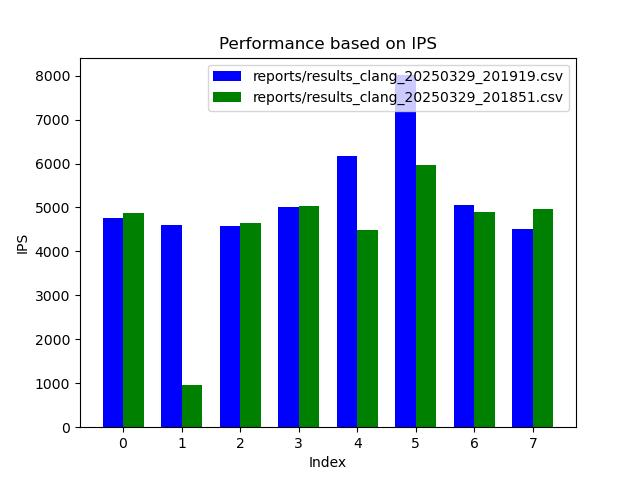
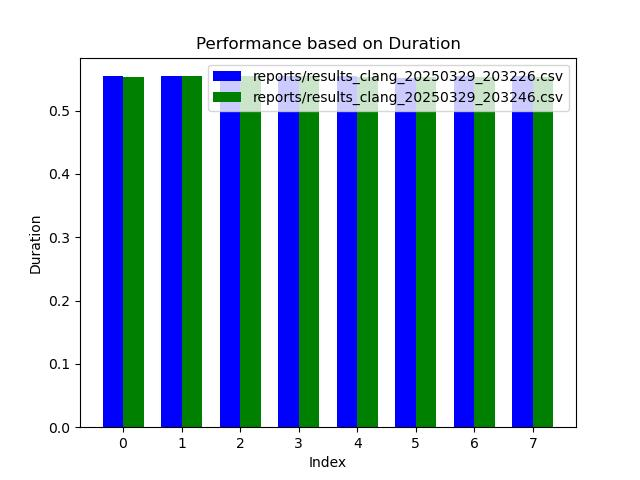
Adding graphics

diff --git a/graphics.py b/graphics.py
@@ -13,7 +13,7 @@ for i, file in enumerate(csv_files):
     data = pd.read_csv(file)
     
     # Assuming the CSV has a column named 'IPS' for performance
-    ips = data['IPS'].to_numpy()  # Convert to numpy array
+    ips = data['Duration'].to_numpy()  # Convert to numpy array
     
     # Generate bar plot
     x_positions = range(len(ips))
@@ -23,8 +23,8 @@ for i, file in enumerate(csv_files):
     
 # Add labels and title
 plt.xlabel('Index')
-plt.ylabel('IPS')
-plt.title('Performance based on IPS')
+plt.ylabel('Duration')
+plt.title('Performance based on Duration')
 plt.legend()
 
 # Set x-axis ticks to show integer indices
